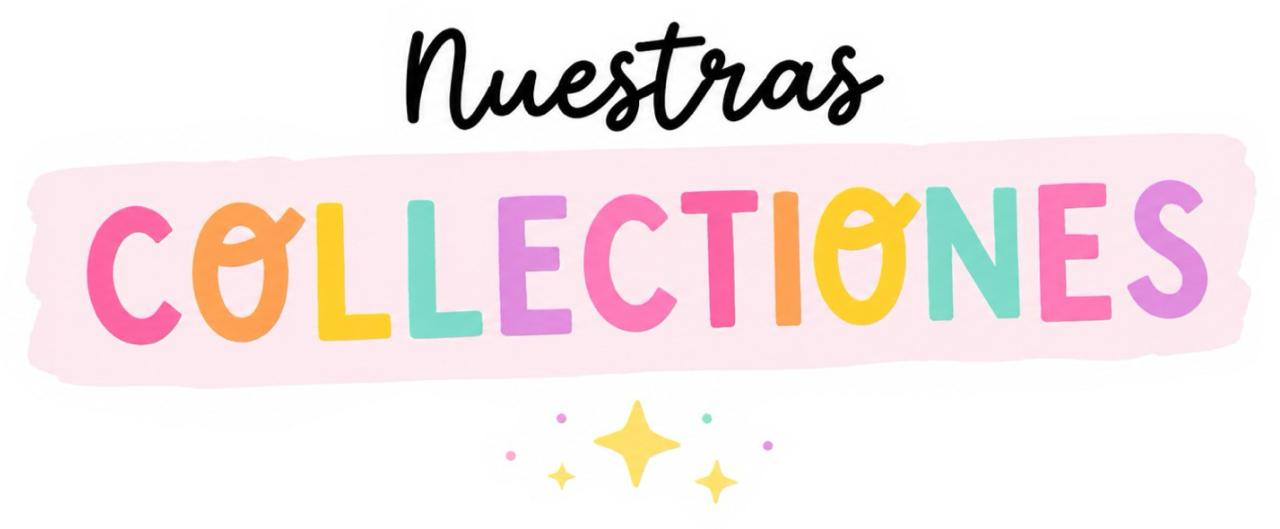
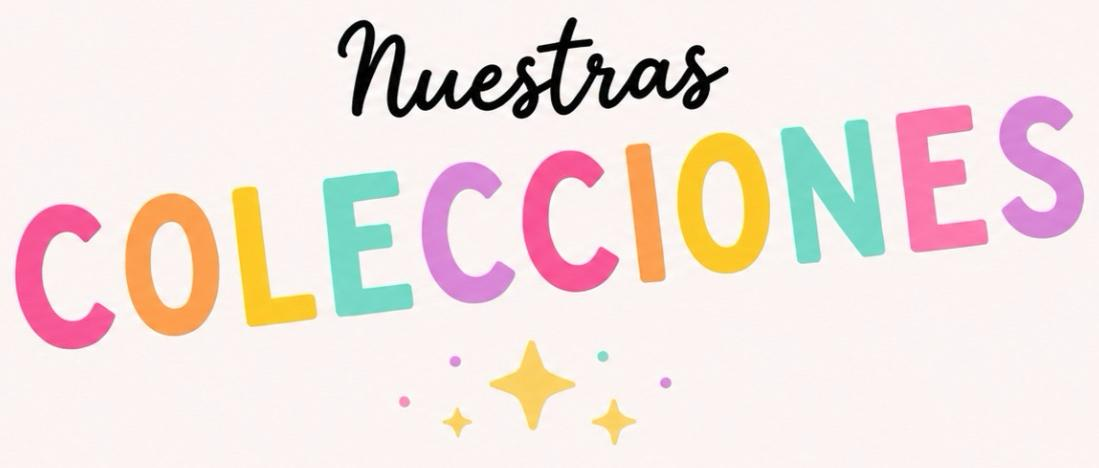
95% index

diff --git a/CSS/style.css b/CSS/style.css
@@ -184,17 +184,6 @@ header h1 {
     
 }
 
-.titulo-colecciones{
-    width: 100%;
-    height: 220px;
-
-    background: url("../IMGA/imagen-colecciones2.jpeg") no-repeat center;
-    background-size: contain;
-    background-position: center 40px;
-    margin: 20px 0;
-}
-
-
 .color-colecciones {
     font-size: 2.5rem;
     font-weight: bold;
@@ -479,11 +468,63 @@ header h1 {
     text-align: center;
 }
 
+.titulo-colecciones{
+    position: relative;
+    z-index: 5;
+
+    text-align: center;
+    margin-bottom: 40px;
+}
+
+.titulo-colecciones img{
+    width: 320px;
+}
+
 .seccion-colecciones{
-    min-height: 100vh;
-    background: none;
-    background-size: cover;
+    position: relative;
+    width: 100%;
+    min-height: 800px;
+
+    display: flex;
+    flex-direction: column;
+    align-items: center;
+
+    justify-content: flex-start;
+
+    padding-top: 80px;
+
+    overflow: hidden;
+
+    margin-bottom: 0;
     
+}
+
+.fondo-colecciones{
+    position: absolute;
+    bottom: 20px;
+
+    left: 0;
+    width: 100%;
+    height: auto;
+
+    z-index: 1;
+    pointer-events: none;
+}
+
+.slider-container{
+    position: relative;
+    z-index: 5;
+
+    width: 100%;
+    max-width: 1200px;
+
+    margin: 0 auto;
+
+    display: flex;
+    justify-content: center;
+    gap: 30px;
+
+    flex-wrap: wrap;
 }
 
 .productos-slider {
@@ -611,50 +652,48 @@ button:hover{
     background-color: var(--naranja);
 }
 
-.marca-banner {
-    position: relative;
-    height: 80vh;
-
-    background: url("../IMGA/fondo-marca.jpeg") no-repeat center;
+.seccion-sobre{
+    background: url("../IMGA/fondo-sobre.jpeg") no-repeat center 70%;
     background-size: cover;
+
+    height: 100vh;
+    padding: 80px 40px;
 
     display: flex;
     align-items: center;
-    justify-content: flex-end;
 
-    padding: 40px;
+    margin-top: -18px;
 }
 
-.marca-logo {
-    position: absolute;
+/*CONTENIDO ENCIMA*/
 
-    left: 340px;
-    top: 50%;
+.contenido-sobre{
+    position: relative;
+    z-index: 2;
 
-    transform: translateY(-50%);
+    max-width: 600px;
 
-    width: 650px;
-}
+    margin-left: 250px;
+    margin-top: 250px;
 
-.marca-overlay {
-    max-width: 500px;
-
-    background: rgba(255, 255, 255, 0.85);
+    background: rgba(255, 255, 255, 0.6);
     backdrop-filter: blur(5px);
 
     padding: 30px;
     border-radius: 20px;
-
-    box-shadow: 0 10px 25px rgba(0, 0, 0, 0.2);
 }
 
-.marca-overlay h2 {
-    color: var(--rosa-fuerte);
+.contenido-sobre h2{
+    font-size: 2.2rem;
+    font-size: 600;
+    letter-spacing: 1px;
     margin-bottom: 15px;
+    color: var(--rosa);
 }
 
-.marca-overlay p {
-    color: var(--negro);
-    margin-bottom: 20px;
+.contenido-sobre p{
+    font-size: 1.6rem;
+    line-height: 1.6;
+    color: #444;
 }
 

diff --git a/HTML/index.html b/HTML/index.html
@@ -217,15 +217,19 @@
 <!-- COLECCIONES -->
 <section class="seccion-colecciones">
 
-    <h2 class="titulo-colecciones"></h2>
+    <img src="../IMGA/fondo-tarjetas.jpeg" class="fondo-colecciones">
+
+    <h2 class="titulo-colecciones">
+        <img src="../IMGA/imagen-colecciones2.jpeg" alt="">
+    </h2>
 
     <div class="slider-container">
 
         <div class="slider-box">
 
-            <img src="../IMGA/FONDODINDX.jpeg" class="slide active">
-            <img src="../IMGA/FONDOINDEEXX.jpeg" class="slide">
-            <img src="../IMGA/FONDOINDEX.jpeg" class="slide">
+            <img src="../IMG-CRAYOLAS/C-CHICASSUPER.jpeg" class="slide active">
+            <img src="../IMG-CRAYOLAS/C-BTS.jpeg" class="slide">
+            <img src="../IMG-CRAYOLAS/C-MERLINA.jpeg" class="slide">
 
             <div class="card-cover">
                 <img src="../IMGA/portada-crayolas.jpeg" class="cover-img">
@@ -234,9 +238,9 @@
 
         <div class="slider-box">
             
-            <img src="../IMGA/FONDODINDX.jpeg" class="slide">
-            <img src="../IMGA/FONDOINDEEXX.jpeg" class="slide">
-            <img src="../IMGA/FONDOINDEX.jpeg" class="slide">
+            <img src="../IMG-TATUAJES/TATUAJE.jpeg" class="slide">
+            <img src="../IMG-TATUAJES/T-DIBUJOS.jpeg" class="slide">
+            <img src="../IMG-TATUAJES/t-animales.jpeg" class="slide">
 
             <div class="card-cover">
                 <img src="../IMGA/portada-tatuajes.jpeg" class="cover-img">
@@ -245,9 +249,9 @@
 
         <div class="slider-box">
         
-            <img src="../IMGA/FONDODINDX.jpeg" class="slide">
-            <img src="../IMGA/FONDOINDEEXX.jpeg" class="slide">
-            <img src="../IMGA/FONDOINDEX.jpeg" class="slide">
+            <img src="../IMG-ALMOHADAS/A-BISONTES.jpeg" class="slide">
+            <img src="../IMG-ALMOHADAS/A-SPIDERMAN.jpeg" class="slide">
+            <img src="../IMG-ALMOHADAS/A-STITCH.jpeg" class="slide">
 
             <div class="card-cover">
                 <img src="../IMGA/portada-peluches.jpeg" alt="cover-img">
@@ -256,9 +260,9 @@
 
         <div class="slider-box">
         
-            <img src="../IMGA/FONDODINDX.jpeg" class="slide">
-            <img src="../IMGA/FONDOINDEEXX.jpeg" class="slide">
-            <img src="../IMGA/FONDOINDEX.jpeg" class="slide">
+            <img src="../IMG-KITS/K-DINOSAURIOS.jpeg" class="slide">
+            <img src="../IMG-KITS/K-ESFERAS.jpeg" class="slide">
+            <img src="../IMG-KITS/K-OSOS.jpeg" class="slide">
 
             <div class="card-cover">
                 <img src="../IMGA/portada-kits.jpeg" alt="cover-img">
@@ -270,11 +274,10 @@
 </section>
 
 <!-- MARCA -->
-<section class="marca-banner">
+<section class="seccion-sobre">
 
-    <img src="../IMGA/logo-marca.jpeg" class="marca-logo">
+    <div class="contenido-sobre">
 
-    <div class="marca-overlay">
         <h2>CONOCE DE NUESTRA MARCA</h2>
 
         <p>
@@ -283,7 +286,6 @@
             convertir momentos especiales en recuerdos inolvidables.
         </p>
 
-        <button>Descubre más</button>
     </div>
 
 </section>